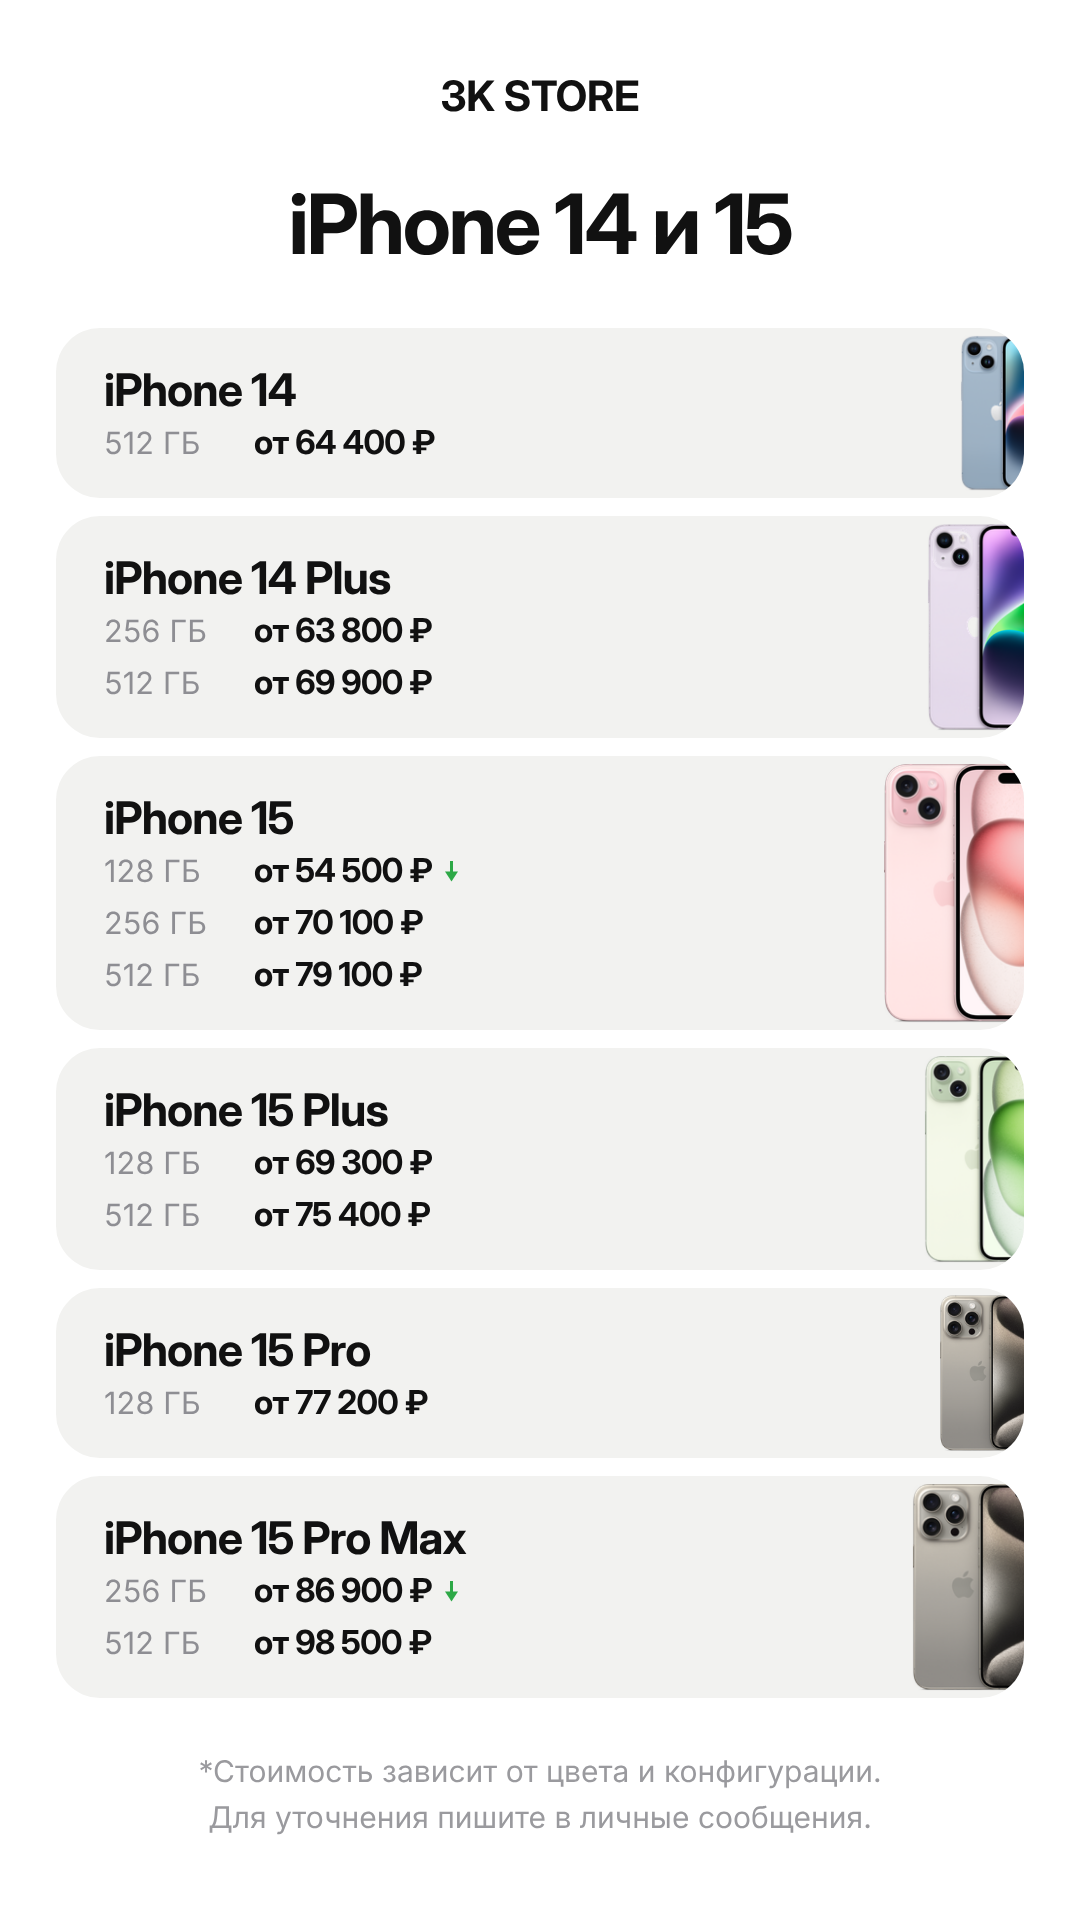
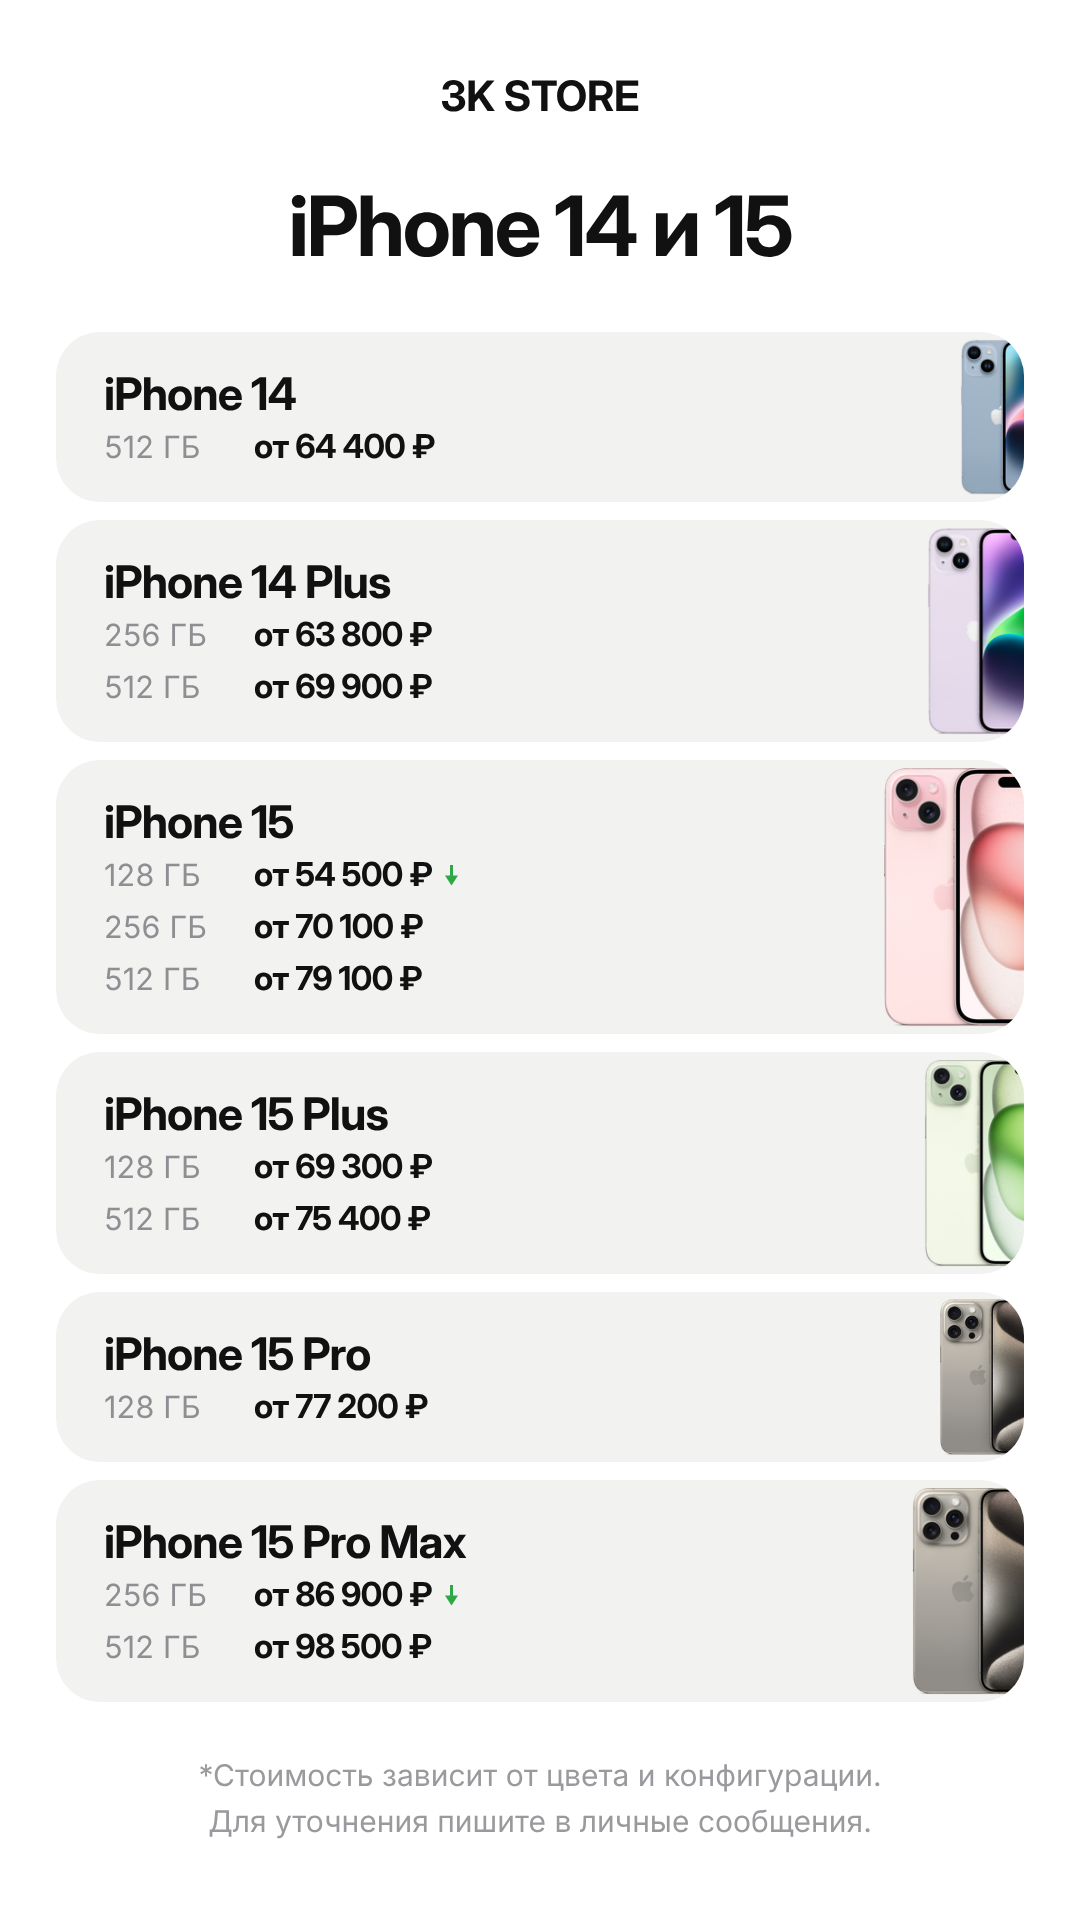
Прайс iPhone 17 Pro и Pro Max, заголовок в две строки
Claude-Session: https://claude.ai/code/session_014zc7qX9TFUN7T7gG8PEUD3

diff --git a/price/iphone-17-pro.js b/price/iphone-17-pro.js
@@ -1,0 +1,20 @@
+// Прайс iPhone 17 Pro и Pro Max. price — минимальная цена сейчас, prev — в прошлом прайсе.
+// Стрелка вниз ставится сама, если price < prev.
+window.PRICE = {
+  title: 'iPhone 17 Pro\nи Pro Max',
+  date: '24.10.2026',
+  size: 'large',
+  models: [
+    { name: 'iPhone 17 Pro', phone: 'iphone-17-pro', rows: [
+      { mem: '256 ГБ', price: 101200, prev: 103100 },
+      { mem: '512 ГБ', price: 118800, prev: 120500 },
+      { mem: '1 ТБ', price: 136400, prev: 133700 },
+    ]},
+    { name: 'iPhone 17 Pro Max', phone: 'iphone-17-pro-max', rows: [
+      { mem: '256 ГБ', price: 107500, prev: 107700 },
+      { mem: '512 ГБ', price: 123200, prev: 123200 },
+      { mem: '1 ТБ', price: 141900, prev: 150200 },
+      { mem: '2 ТБ', price: 153500, prev: 157900 },
+    ]},
+  ],
+};

diff --git a/price/template.html b/price/template.html
@@ -13,7 +13,7 @@
     -webkit-font-smoothing: antialiased;
   }
   .brand { margin-top: 70px; font-size: 42px; font-weight: 700; letter-spacing: -0.2px; }
-  .title { margin-top: 62px; font-size: 83px; font-weight: 700; letter-spacing: -2.4px; line-height: 1; }
+  .title { margin-top: 62px; font-size: 83px; font-weight: 700; letter-spacing: -2.4px; line-height: 1.05; text-align: center; white-space: pre-line; }
   .cards { margin-top: 62px; width: 968px; display: flex; flex-direction: column; gap: 18px; }
   .card {
     position: relative; overflow: hidden;
